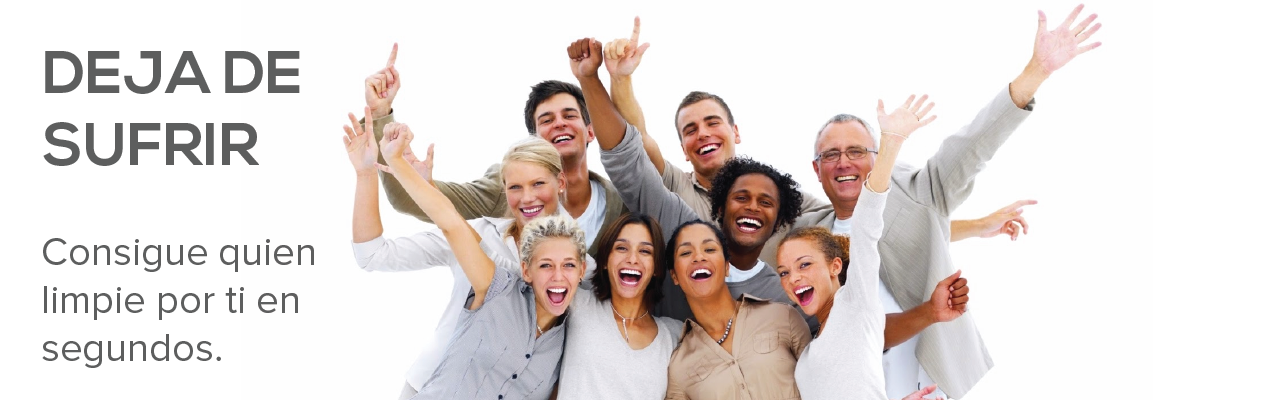
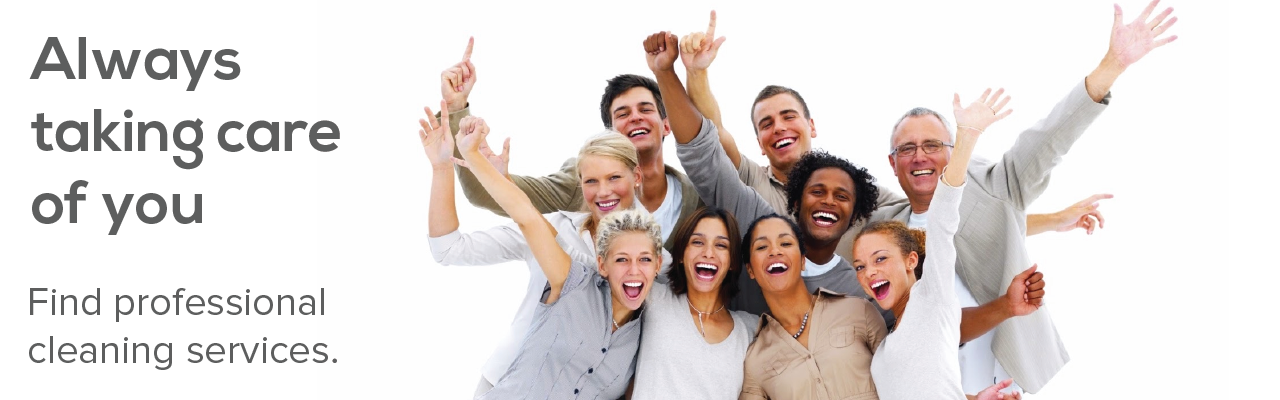
Imagen de inicio

diff --git a/pages/inicio.html b/pages/inicio.html
@@ -2,7 +2,7 @@
 
   <img ng-src="/img/limpie-01.png" alt="" class="img-responsive">
   <div class="division blue text-center">
-    <h2>Conectamos gente que limpia con gente que no tiene tiempo, asi todos ganan.</h2>
+    <h2>Find the right people to do the job.</h2>
   </div>
   <div class="container text-center">    
     <!-- Example row of columns -->
@@ -14,6 +14,7 @@
         <p><a class="btn btn-default" href="#" role="button">View details &raquo;</a></p>
       </div>
       <div class="col-md-4">
+        <h1><i class="fa fa-paint"></i></h1>
         <h2>Heading</h2>
         <p>Donec id elit non mi porta gravida at eget metus. Fusce dapibus, tellus ac cursus commodo, tortor mauris condimentum nibh, ut fermentum massa justo sit amet risus. Etiam porta sem malesuada magna mollis euismod. Donec sed odio dui. </p>
         <p><a class="btn btn-default" href="#" role="button">View details &raquo;</a></p>

diff --git a/index.html b/index.html
@@ -37,12 +37,12 @@
         </div>
         <div class="navbar-collapse collapse">
           <ul class="nav navbar-nav navbar-right">            
-              <li><a href="#/login"><i class="fa fa-user"></i> Iniciar sesión</a></li>            
+              <li><a href="#/login"><i class="fa fa-user"></i> Login</a></li>            
           </ul>
         </div><!--/.navbar-collapse -->
       </div>
     </div>
-    
+
     <div id="main">       
       <div class="page {{ pageClass }}" ng-view></div>    
     </div>  

diff --git a/app.js b/app.js
@@ -43,8 +43,7 @@ angular.module('App', ['ngRoute','ngAnimate'])
 	$scope.pageClass = 'comunicate';		
 })
 .controller('informacionController', function($scope, $routeParams) {									
-	$scope.pageClass = 'page-all';	
-	
+	$scope.pageClass = 'page-all';		
 })
 .controller('userController', function($scope, $routeParams) {									
 	$scope.pageClass = 'page-all';	
